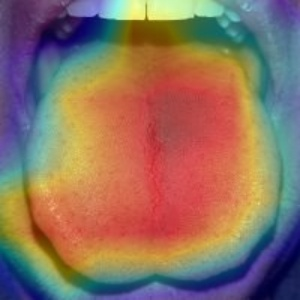
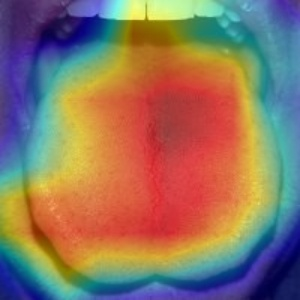
Clean flask app and fix gradcam

diff --git a/webapp/app.py b/webapp/app.py
@@ -1,8 +1,9 @@
-import matplotlib.pyplot as plt
 from tf_keras_vis.gradcam import Gradcam
 from tf_keras_vis.utils.model_modifiers import ReplaceToLinear
 from tf_keras_vis.utils.scores import CategoricalScore
+
 from flask import Flask, render_template, request
+
 import tensorflow as tf
 import numpy as np
 import os
@@ -12,11 +13,12 @@ import cv2
 app = Flask(__name__)
 
 
-MODEL_PATH="../models/efficientnet.h5"
+BASE_DIR = os.path.dirname(
+    os.path.dirname(
+        os.path.abspath(__file__)
+    )
+)
 
-import os
-
-BASE_DIR = os.path.dirname(os.path.dirname(os.path.abspath(__file__)))
 
 MODEL_PATH = os.path.join(
     BASE_DIR,
@@ -24,27 +26,23 @@ MODEL_PATH = os.path.join(
     "efficientnet.h5"
 )
 
-model = tf.keras.models.load_model(
-    MODEL_PATH,
-    compile=False
-)
-
-print("Model loaded successfully")
 
 model = tf.keras.models.load_model(
     MODEL_PATH,
     compile=False
 )
 
+print("MODEL LOADED")
 
-classes=[
+
+classes = [
     "Cancer",
     "Normal",
     "Precancer"
 ]
 
 
-UPLOAD_FOLDER=os.path.join(
+UPLOAD_FOLDER = os.path.join(
     app.root_path,
     "static",
     "uploads"
@@ -56,93 +54,44 @@ os.makedirs(
 )
 
 
-app.config["UPLOAD_FOLDER"]=UPLOAD_FOLDER
+app.config["UPLOAD_FOLDER"] = UPLOAD_FOLDER
 
 
 
 def preprocess_image(path):
 
-    img=cv2.imread(path)
+    img = cv2.imread(path)
 
-    img=cv2.resize(
+    img = cv2.resize(
         img,
-        (224,224)
-)
+        (300,300)
+    )
 
-    img=img.astype("float32")
+    img = img.astype("float32")
 
 
-    img=tf.keras.applications.efficientnet.preprocess_input(
+    img = tf.keras.applications.efficientnet.preprocess_input(
         img
     )
 
 
-    img=np.expand_dims(
+    img = np.expand_dims(
         img,
         axis=0
     )
 
-
     return img
-def generate_gradcam(img, class_id):
 
-    def generate_gradcam(img, class_id):
+
+
+
+def generate_gradcam(img, class_id):
 
     gradcam = Gradcam(
         model,
         model_modifier=ReplaceToLinear()
     )
 
-    score = CategoricalScore(class_id)
-
-    cam = gradcam(
-        score,
-        img,
-        penultimate_layer=-1
-    )
-
-    heatmap = cam[0]
-
-    heatmap = cv2.resize(
-        heatmap,
-        (300,300)
-    )
-
-    heatmap = np.uint8(
-        255 * heatmap
-    )
-
-    colored = cv2.applyColorMap(
-        heatmap,
-        cv2.COLORMAP_JET
-    )
-
-    original = img[0]
-
-    original = (
-        original - original.min()
-    ) / (
-        original.max()-original.min()
-    )
-
-    original=np.uint8(original*255)
-
-    overlay=cv2.addWeighted(
-        original,
-        0.5,
-        colored,
-        0.5,
-        0
-    )
-
-    path="static/uploads/gradcam.jpg"
-
-    cv2.imwrite(path, overlay)
-
-    tf.keras.backend.clear_session()
-
-    return "gradcam.jpg"
-
 
     score = CategoricalScore(class_id)
 
@@ -178,7 +127,7 @@ def generate_gradcam(img, class_id):
 
 
     original = (
-        original - original.min()
+        original-original.min()
     ) / (
         original.max()-original.min()
     )
@@ -189,25 +138,30 @@ def generate_gradcam(img, class_id):
     )
 
 
-    overlay=cv2.addWeighted(
+    overlay = cv2.addWeighted(
         original,
-        0.6,
+        0.5,
         colored,
-        0.4,
+        0.5,
         0
     )
 
 
-    path="static/uploads/gradcam.jpg"
+    save_path = os.path.join(
+        app.config["UPLOAD_FOLDER"],
+        "gradcam.jpg"
+    )
 
 
     cv2.imwrite(
-        path,
+        save_path,
         overlay
     )
 
 
     return "gradcam.jpg"
+
+
 
 
 @app.route("/")
@@ -219,74 +173,78 @@ def home():
 
 
 
+
 @app.route(
     "/predict",
     methods=["POST"]
 )
-
[email redacted]("/predict", methods=["POST"])
 def predict():
 
-    try:
-
-        file=request.files["image"]
-
-        path=os.path.join(
-            app.config["UPLOAD_FOLDER"],
-            file.filename
-        )
-
-        file.save(path)
-
-        print("IMAGE SAVED:", path)
-
-        img=preprocess_image(path)
-
-        print("IMAGE PREPROCESSED")
-
-        pred=model.predict(img)
-
-        print("PREDICTION DONE")
-
-        index=np.argmax(pred[0])
-
-        print("CLASS:", classes[index])
-
-        gradcam_image = generate_gradcam(
-            img,
-            index
-        )
-
-        print("GRADCAM DONE")
-
-        result=classes[index]
-
-        confidence=float(
-            np.max(pred[0])*100
-        )
-
-        return render_template(
-            "index.html",
-            result=result,
-            confidence=round(confidence,2),
-            image=file.filename,
-            gradcam=gradcam_image
-        )
+    file = request.files["image"]
 
 
-    except Exception as e:
-
-        print("ERROR:", e)
-
-        return str(e),500
-
+    path = os.path.join(
+        app.config["UPLOAD_FOLDER"],
+        file.filename
+    )
 
 
-import os
+    file.save(path)
+
+
+    print("IMAGE SAVED")
+
+
+    img = preprocess_image(path)
+
+
+    print("PREPROCESS DONE")
+
+
+    pred = model.predict(img)
+
+
+    index = np.argmax(
+        pred[0]
+    )
+
+
+    print(
+        "PREDICTION:",
+        classes[index]
+    )
+
+
+    gradcam_image = generate_gradcam(
+        img,
+        index
+    )
+
+
+    confidence = float(
+        np.max(pred[0])*100
+    )
+
+
+    return render_template(
+        "index.html",
+        result=classes[index],
+        confidence=round(confidence,2),
+        image=file.filename,
+        gradcam=gradcam_image
+    )
+
+
+
 
 if __name__ == "__main__":
-    import os
+
     app.run(
         host="0.0.0.0",
-        port=int(os.environ.get("PORT",5000))
+        port=int(
+            os.environ.get(
+                "PORT",
+                5000
+            )
+        )
     )